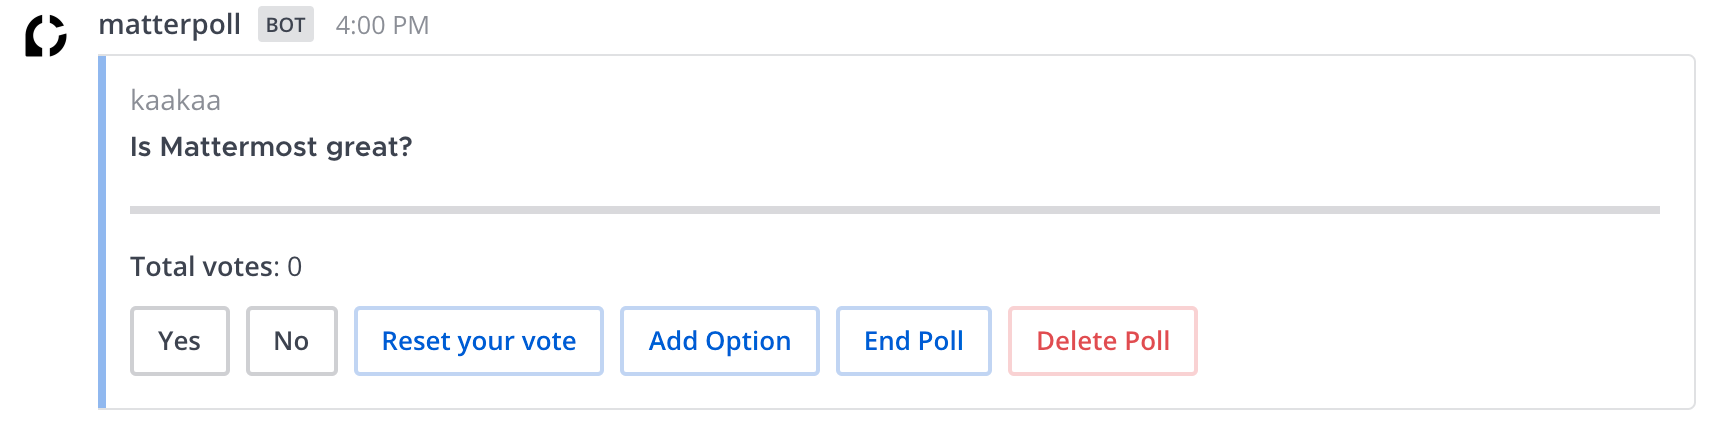
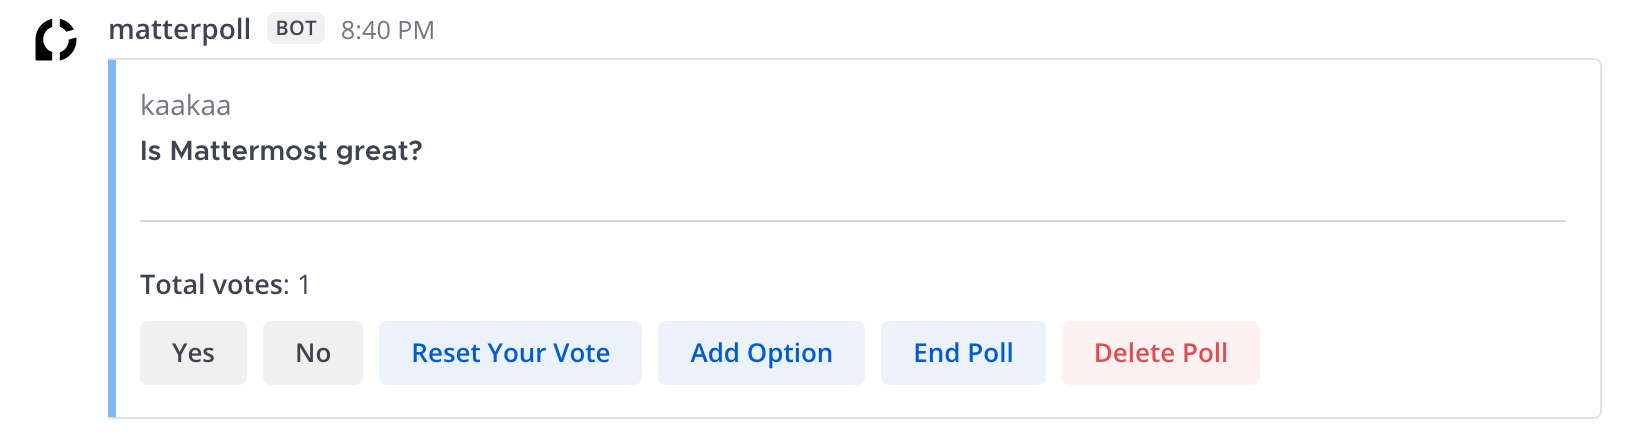
Updates for 1.7 (#543)
* bump up version to 1.7.0

* docs: update screenshot to reflect #513

Changed region(s): [[0.0, 0.0, 1.0, 0.9416]]

diff --git a/server/store/kvstore/upgrade.go b/server/store/kvstore/upgrade.go
@@ -26,6 +26,7 @@ func getUpgrades() []*upgrade {
 		{toVersion: "1.5.0", upgradeFunc: nil},
 		{toVersion: "1.6.0", upgradeFunc: nil},
 		{toVersion: "1.6.1", upgradeFunc: nil},
+		{toVersion: "1.7.0", upgradeFunc: nil},
 	}
 }
 

diff --git a/server/store/kvstore/store_test.go b/server/store/kvstore/store_test.go
@@ -9,7 +9,7 @@ import (
 	"github.com/stretchr/testify/assert"
 )
 
-const latestVersion = "1.6.1"
+const latestVersion = "1.7.0"
 
 func setupTestStore(api plugin.API) *Store {
 	store := Store{
